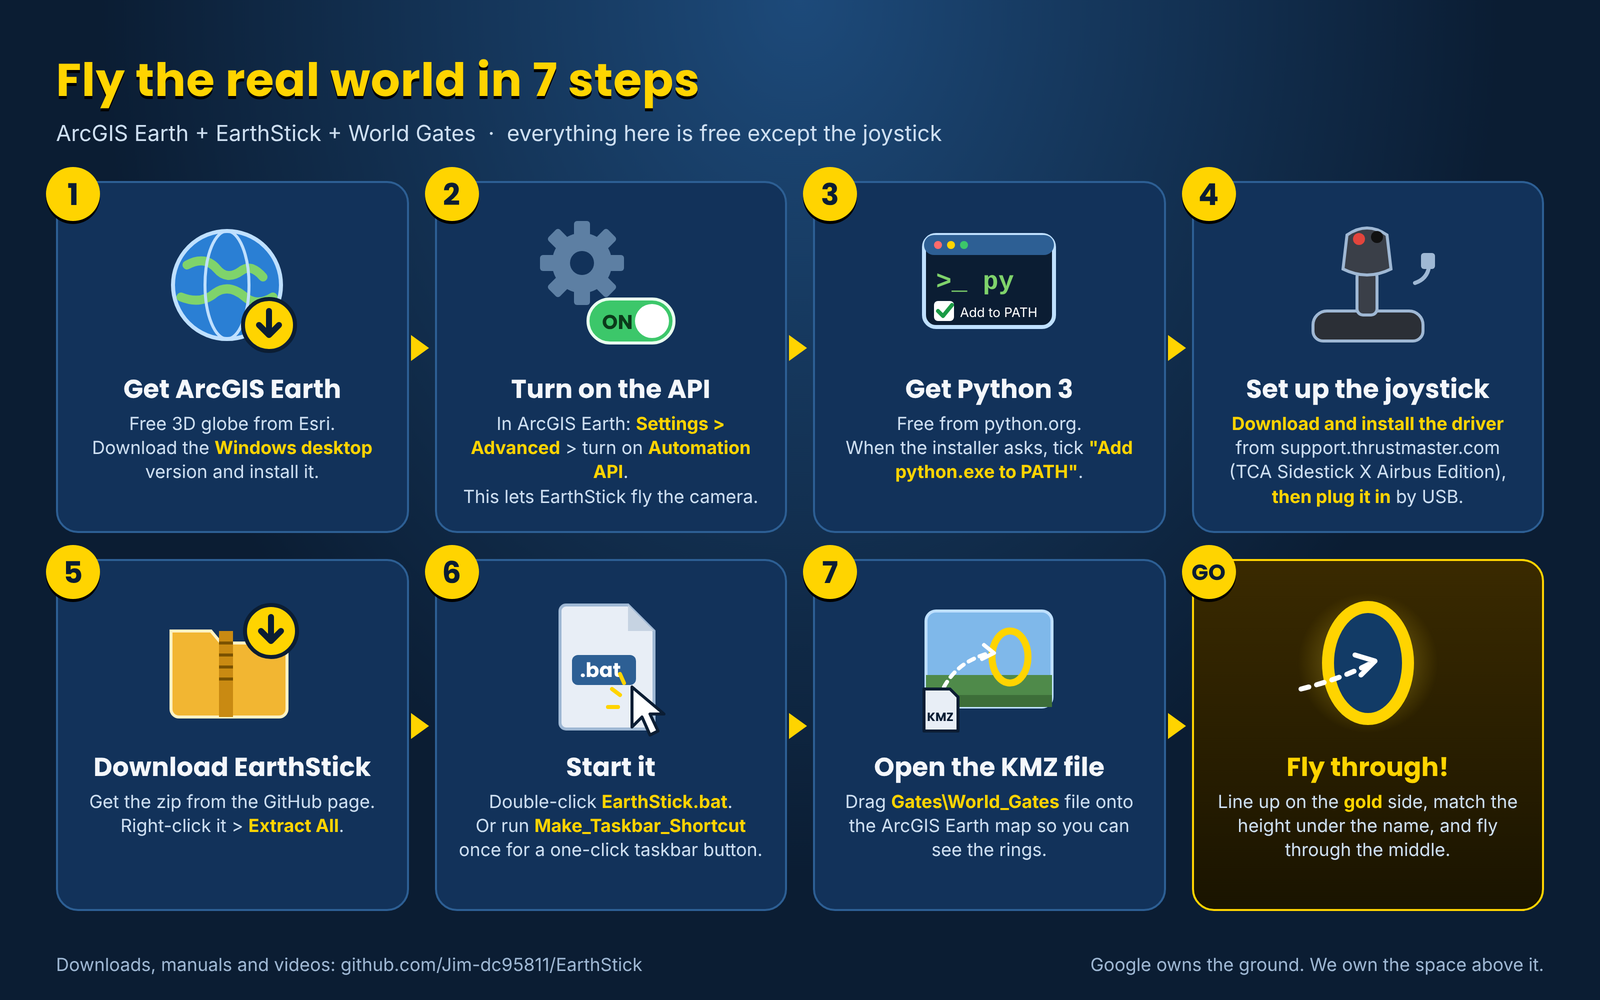
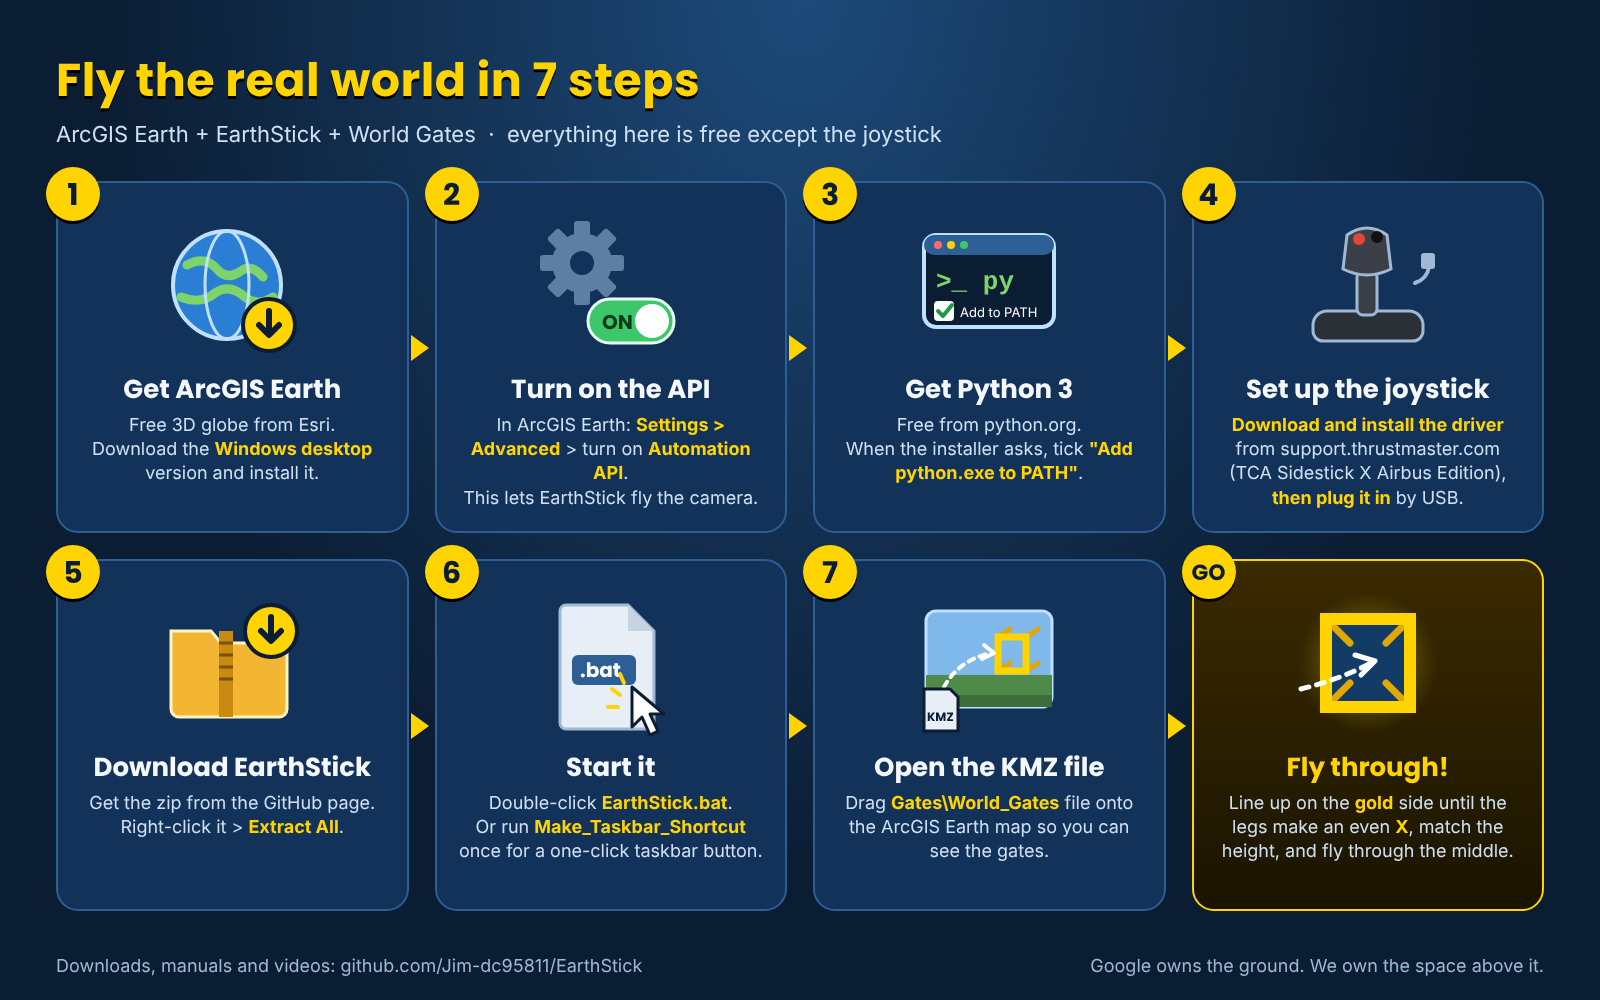
Fresh-eyes audit: square-gate wording, 7-steps picture, troubleshooting for 1.3.4, stale hashes
Claude-Session: https://claude.ai/code/session_01MnLGTHyhGnworHWEFuwHD3

diff --git a/tools/graphics/earthstick_getting_started.html b/tools/graphics/earthstick_getting_started.html
@@ -118,14 +118,15 @@
         <rect x="12" y="20" width="126" height="96" rx="10" fill="#7fb8ea" stroke="#bfe0ff" stroke-width="3"/>
         <rect x="12" y="84" width="126" height="32" rx="0" fill="#4f8a4a"/>
         <rect x="12" y="104" width="126" height="12" rx="0" fill="#3d6e39"/>
-        <ellipse cx="96" cy="66" rx="18" ry="26" fill="none" stroke="#ffd400" stroke-width="7"/>
+        <path d="M84 46 l12 -8 M112 46 l12 -8 M84 80 l12 -8 M112 80 l12 -8" stroke="#e0a800" stroke-width="5" stroke-linecap="round"/>
+        <rect x="84" y="46" width="28" height="34" fill="none" stroke="#ffd400" stroke-width="7"/>
         <path d="M30 96 q14 -26 46 -34" fill="none" stroke="#fff" stroke-width="4" stroke-dasharray="6 6" stroke-linecap="round"/>
         <path d="M70 54 l10 8 l-12 6" fill="none" stroke="#fff" stroke-width="4" stroke-linecap="round" stroke-linejoin="round"/>
         <path d="M10 98 h26 l8 8 v34 h-34 z" fill="#e8eef6" stroke="#0b1d33" stroke-width="3" stroke-linejoin="round"/>
         <text x="13" y="130" font-family="Poppins" font-size="12" fill="#0b1d33">KMZ</text>
       </svg>
       <div class="t">Open the KMZ file</div>
-      <div class="d">Drag <b>Gates\World_Gates</b> file onto the ArcGIS Earth map so you can see the rings.</div>
+      <div class="d">Drag <b>Gates\World_Gates</b> file onto the ArcGIS Earth map so you can see the gates.</div>
       <svg class="arrow" viewBox="0 0 22 30"><path d="M2 2 L20 15 L2 28 Z" fill="#ffd400"/></svg>
     </div>
     <!-- GO -->
@@ -133,12 +134,14 @@
       <svg class="icon" viewBox="0 0 150 150">
         <defs><radialGradient id="glow"><stop offset="0" stop-color="#fff6b0"/><stop offset="1" stop-color="#ffd400" stop-opacity="0"/></radialGradient></defs>
         <circle cx="75" cy="72" r="70" fill="url(#glow)" opacity="0.45"/>
-        <ellipse cx="75" cy="72" rx="40" ry="56" fill="#123b66" stroke="#ffd400" stroke-width="12"/>
+        <rect x="33" y="28" width="84" height="88" fill="#123b66"/>
+        <path d="M33 28 L57 52 M117 28 L93 52 M33 116 L57 92 M117 116 L93 92" stroke="#e0a800" stroke-width="7" stroke-linecap="round"/>
+        <rect x="33" y="28" width="84" height="88" fill="none" stroke="#ffd400" stroke-width="12"/>
         <path d="M8 98 q40 -10 70 -26" fill="none" stroke="#fff" stroke-width="5" stroke-linecap="round" stroke-dasharray="8 8"/>
         <path d="M62 64 l20 6 l-14 14" fill="none" stroke="#fff" stroke-width="5" stroke-linecap="round" stroke-linejoin="round"/>
       </svg>
       <div class="t" style="color:#ffd400">Fly through!</div>
-      <div class="d">Line up on the <b>gold</b> side, match the height under the name, and fly through the middle.</div>
+      <div class="d">Line up on the <b>gold</b> side until the legs make an even <b>X</b>, match the height, and fly through the middle.</div>
     </div>
   </div>
   <div class="foot"><span>Downloads, manuals and videos: github.com/Jim-dc95811/EarthStick</span><span>Google owns the ground. We own the space above it.</span></div>

diff --git a/CLAUDE.md b/CLAUDE.md
@@ -2,7 +2,7 @@
 
 **Written by Claude, for Claude.** Read this first after any session reset. It is the fastest way to get fully caught up on Jim's ArcGIS Earth Unlocked project family and how to work with him.
 
-**Last updated:** 2026-11-05 (~18:50) - after EarthStick 1.3.4 release and the World Gate Maker 1.1 TEST (square gates); gate-alignment math recorded in section 3a
+**Last updated:** 2026-11-05 (~19:30) - after EarthStick 1.3.4, World Gate Maker 1.1 and Jim's fresh-eyes audit of every page; gate-alignment math in section 3a
 
 Update this file whenever something durable changes: a release, an accepted test, a new rule, a decision, an open item opened or closed. Keep it current rather than long. History belongs in the session log at the bottom, kept short.
 
@@ -25,7 +25,7 @@ The older continuity files in each repo were written by ChatGPT for ChatGPT. The
 
 - **Owner:** Jim Gaddy, GitHub `Jim-dc95811`. Public-safety / fire-service background, decades of hands-on computer and electronics work. Not a traditional programmer; a relentless tester who trusts measured behavior over theory.
 - **Names decided (Jim, 2026-11-03):** family name **ArcGIS Earth Flight** (Jim's choice; he is giving the work away and wants people to find ArcGIS Earth, so "ArcGIS Earth" up front is intended - do not keep re-raising trademark concerns). Gate feature name **World Gates** (airport gates fit the ATL "connect here" hub; "portal" collides with Esri's Portal for ArcGIS and the Portal game; "portal" is fine as a word in videos). Tool names stay: EarthStick (not "Flight Stick" - generic, unsearchable), Object Factory, PointLayer, Parcel100, MBTiles converter, Master 4. **Renaming the pages/repos from "ArcGIS Earth Unlocked" to "ArcGIS Earth Flight" is NOT done yet** - separate job when Jim says go.
-- **WHERE THINGS STAND (2026-11-05, evening):** EarthStick **1.3.4** is current (1.3.3 + green RING HEIGHT light + tractor beam 'LOCKED ON'; World Gates **v21** = square gates with legs; City Beacons v2, launcher v1.0) - details in section 3. Test branches to delete: see section 6. **World Gate Maker 1.1** released (square gates). Nothing in test. **World Gate Maker 1.0** released. **Every download has a 'What's in the zip' sheet** (bright style; see the pictogram notes below). Nothing in test; one finished test branch (`earthstick-v1.3.3-test`) waits for Jim to delete (section 6). All seven repos clean and pushed; link check = only the 3 known legacy failures. The full World Gates story, every measured ArcGIS Earth fact and the 3D layout rules are in **section 3a** - read it before touching anything that floats in the sky. Next up: **The Realm** (below) - The Void needs Jim's three choices; the 'instruction book' page waits for Jim's go. Jim's idea list waiting for a go is in section 6.
+- **WHERE THINGS STAND (2026-11-05, evening):** EarthStick **1.3.4** is current (1.3.3 + green RING HEIGHT light + tractor beam 'LOCKED ON'; World Gates **v21** = square gates with legs; City Beacons v2, launcher v1.0) - details in section 3. **World Gate Maker 1.1** (square gates) is current. Nothing in test; four finished test branches wait for Jim to delete (section 6). **Every download has a 'What's in the zip' sheet** (bright style; see the pictogram notes below). All seven repos clean and pushed; link check = only the 3 known legacy failures. The full World Gates story, every measured ArcGIS Earth fact and the 3D layout rules are in **section 3a** - read it before touching anything that floats in the sky. Next up: **The Realm** (below) - The Void needs Jim's three choices; the 'instruction book' page waits for Jim's go. Jim's idea list waiting for a go is in section 6.
 - **THE REALM (Jim, 2026-11-04):** the bigger plan - games/adventures over the real map with EarthStick gates, released as packages. **Design journal: `realm/REALM_JOURNAL.md`** (keep it updated every session: dated log entries, building blocks, realms, backlog). First realm: **The Void** (hidden giant one-way trap gate; clue gates unlock an exit gate that EarthStick draws in the sky) - needs EarthStick 1.4 (clue / locked / appearing gates). Open: clue order, locations, clue count.
 - **Esri Community (Jim, joined 2026-11-03):** profile `community.esri.com/en/profile/discussions/Jim_G`, web page = the Unlocked repo. First post (ArcGIS Earth board, 2026-11-04 8:45 AM): 'ArcGIS Earth Offline - Creating and Using TPKX files - Using API for Joystick Control - Creating Wormholes' (8 views, 0 comments at 18:34). This is the outreach channel the 2a-1 notes called for.
 - **Getting-started pictogram (Jim's idea, 2026-11-04; Claude's first drawing for him):** 'Fly the real world in 7 steps' (own SVG icons, no logos), source `tools/graphics/earthstick_getting_started.html`; on the EarthStick page top, the EarthStick user guide (top) and the front page New: World Gates section. Jim's edits: step 4 = download and install the Thrustmaster driver (https://support.thrustmaster.com/en/product/tca-sidestick-x-airbus-ed-en/#drivers) then plug it in; step 7 = 'Open the KMZ file'. Jim: 'it would be a dream if that would be in the Thrustmaster box' - same style can be made for the other tools. **Second pictogram (Jim, 2026-11-04 20:27): 'What's in the EarthStick folder?'** - one card per item of the extracted 1.3.3 zip (Fly_ArcGIS_Earth.bat START HERE, Make_Taskbar_Shortcut.bat once, EarthStick.bat other way, EarthStick.py leave it alone, Gates, City_Beacons) + tips (keep together, ArcGIS_Earth_path.txt appears, Windows warning); source `tools/graphics/earthstick_whats_in_the_folder.html` (1600x1100); EarthStick `images/earthstick_whats_in_the_folder.png` + `_full.png`, placed under the README quick start, in the user guide (Start EarthStick, PDF rebuilt) and linked under the front page 7-steps picture. Jim: 'Fantastic job! ... not a graveyard of mysteries and you better not opens' - Jim then (20:34): 'a reputation for excellence if all of our zip packages had a matching file explanation sheet' -> 'I trust your judgement on all pages, engage': **'What's in the zip' sheets for all nine other packages** (World Gate Maker, Object Factory, PointLayer, Parcel100, mb2tpkx, Master 4, Batch Factory, PRAVE/ME Tracker, PRAVE/RMC Tester) from `tools/graphics/make_zip_sheets.py` (facts checked against each zip; dashed green cards = files the tool makes). Placed as a '🗂 What's in the zip - every file explained' line under every download/manual line (repo pages + front page + Chartplotting `index.html` table) and as a 'What's in the zip' section in each manual (7 PDFs rebuilt; PRAVE tracker guide has no PDF; tester has only Jim's own PDF, untouched). **Standing rule: when a zip's contents change, update its sheet in `SHEETS` and re-render.** **Look (Jim, 20:45): bright/light theme** ('brighter, not black and blue') - light sky-to-white background, white cards, gold START HERE card, green dashed 'made for you' cards; the LIGHT THEME block is appended to the CSS in `make_zip_sheets.py` and `earthstick_whats_in_the_folder.html` (the 7-steps picture is still the dark original). Zips themselves unchanged (no version bumps); a sheet can ride inside a zip at that tool's next version.
@@ -143,7 +143,7 @@ ArcGIS Earth     -> the common renderer
 - Android: ~2 GB Z17 TPKX is the practical ceiling; copy from SD card to internal storage before opening.
 - Manuals: `MB2TPKX_USER_MANUAL.md` (new 2026-11-01) and `MASTER4_GRID_MAKER.md`, each with a generated PDF of the same base name as before (`mb2tpkx_User_Manual.pdf`, `Master4_Grid_Maker_User_Manual.pdf`).
 
-**EarthStick 1.3.4** (+ World Gate Maker 1.0)
+**EarthStick 1.3.4** (+ World Gate Maker 1.1)
[3 lines of base64/hex data omitted]
@@ -259,20 +259,20 @@ From the older continuity files. None of these is approved just by appearing her
 
 ## 6. Open items
 
-- **WAITING ON JIM'S GO (one list, 2026-11-04 night):** The Void choices (clue order, trap/drop places, clue count) -> then EarthStick 1.4; the Realm 'instruction book' page; 3D model test for Realm doorways; Mystery Gate flash-round test chain; World Gate Maker 1.1 (recommended: one-way, PNG picture, ring colour); Joystick Explorer (logged in the journal); webcam embed test; launcher v1.1 (Jim's ArcGIS Earth path); page/repo renaming to ArcGIS Earth Flight; Living Atlas basemap test; bright version of the 7-steps picture (offered, unanswered); a windowed-mode screenshot to measure the readout position. Jim's own: Tokyo corner cells 57, 59, 77, 79.
+- **WAITING ON JIM'S GO (one list, 2026-11-04 night):** The Void choices (clue order, trap/drop places, clue count) -> then EarthStick 1.4; the Realm 'instruction book' page; 3D model test for Realm doorways; Mystery Gate flash-round test chain; World Gate Maker 1.2 ideas (one-way, PNG picture, gate colour); Joystick Explorer (logged in the journal); webcam embed test; launcher v1.1 (Jim's ArcGIS Earth path); page/repo renaming to ArcGIS Earth Flight; Living Atlas basemap test; bright version of the 7-steps picture (offered, unanswered; its step 7 / GO icons were redrawn as square gates 2026-11-05); a windowed-mode screenshot to measure the readout position. Jim's own: Tokyo corner cells 57, 59, 77, 79.
 - **Attitude beam -> gate alignment (2026-11-04 23:08 to 2026-11-05 18:31): CLOSED.** Started as Jim's nose laser (trigger = beam, 10 s lock), became gate alignment; ended as square gates + ring-height light + tractor beam in EarthStick 1.3.4 / World Gates v21. Dead ends, measured API facts and all the math: section 3a 'Gate alignment'. Trigger stayed trigger-click (as 1.3.3); Button 2 is still free. Test zips TEST-TEST7 remain on branch `earthstick-v1.3.4-test` until Jim deletes it.
 - **PRAVE (Jim: "addressed later"):** radio field test of tracker v1.1/v1.2 (only startup confirmed); then a PDF of `docs/PRAVE_ME_TRACKER.md`; a screenshot for the PRAVE/RMC tester on the Chartplotting page.
 - **NEXT WHEN JIM RETURNS - live camera objects:** Jim to choose between (a) a camera field in the Object Factory (paste the FL511 picture link; popup gets the live, refreshing picture) and (b) a camera-pack maker (camera numbers + coordinates -> one KMZ). Either is a new feature and a new version. The proven test KMZ is saved at `tools/samples/TEST_Camera_SR200_W_of_I95.kmz` (its branch is deleted). Open question for camera objects: altitude and tether (Claude suggested no tether, about 60-80 m; Jim undecided). Trigger-click (EarthStick 1.2) now opens these popups from the joystick.
 - **Camera picture-in-picture idea (Jim, 2026-11-01, not approved to build):** a separate always-on-top Windows viewer opened by clicking a camera object. PROVEN by Jim: the ArcGIS Earth popup is a built-in browser - an fl511.com link opened the live site inside the popup (back/forward, pin). `earthpip:` link with no handler registered: "couldn't be opened" (inconclusive). PROVEN: a camera object whose popup has `<img src=https://fl511.com/map/Cctv/1362>` + a 10-second refresh script shows the live camera and updates by itself (popup runs JavaScript). Test KMZ saved at `tools/samples/TEST_Camera_SR200_W_of_I95.kmz`. Building it into a tool (e.g. Object Factory camera field or a camera-pack maker) is a new feature: needs Jim's approval and a new version. See `tools/ARCGIS_EARTH_API.md`.
 - **EarthStick 1.2 RELEASED 2026-11-01** (trigger-click; see section 3). Page and manual carry Jim's crosshair + camera-object screenshot (`images/earthstick_trigger_click_crosshair.jpg`). Optional next picture: the same view with the info box open (before/after). The simulated-click recipe is in `tools/ARCGIS_EARTH_API.md`.
-- **World Gates:** released and current (EarthStick 1.3.3 / v19); full reference in section 3a. Ideas still open: Object Factory Gate tab (partly covered by World Gate Maker), trap-door gates (-> The Void), more hubs, live webcam object per city (Jim to pick webcams), TAKE ME THERE camera PUT from a popup (untested), World Gate Maker 1.1 'hidden, one-way' option.
+- **World Gates:** released and current (EarthStick 1.3.4 / v21 square gates); full reference in section 3a. Ideas still open: Object Factory Gate tab (partly covered by World Gate Maker), trap-door gates (-> The Void), more hubs, live webcam object per city (Jim to pick webcams), TAKE ME THERE camera PUT from a popup (untested), World Gate Maker 'hidden, one-way' option.
 - **The Realm / The Void:** waiting on Jim's choices (clue order, trap and drop places, clue count); then EarthStick 1.4 (clue / locked / appearing gates) + the first trap pack. **Instruction book** page: write when Jim says go.
 - **Small follow-ups:** launcher v1.1 = add `C:\Program Files\ArcGIS\ArcGIS Earth\bin\ArcGISEarth.exe` to the known paths (only on Jim's go); page/repo renaming to 'ArcGIS Earth Flight' (only on Jim's go); viewer basemap advice (Living Atlas World Imagery test while signed out).
 - **Objects video** coming from Jim; when it exists, it may replace `5Wn14qlC7n4` on the Object Factory picture (ask).
 - **Parked (Jim's call, 2026-10-31):** Batch Factory findings (code read only) - Cancel ignores the 2-minute settle, duplicate labels caught late, closing the window mid-batch. Raise again only if Jim asks. (Extent Tool findings are moot: tool retired.)
 - `legacy/Earth_Beacon_v1.0/README_original.md` in Object Factory has three relative links that broke when it moved into `legacy/`. Left alone as a preserved original.
-- **Branches to delete (Jim, on GitHub > Branches):** EarthStick `earthstick-v1.3.3-test` and `earthstick-v1.3.4-test`; Unlocked `world-gates-v20-test` and `square-gate-test` (all finished; 1.3.4 released 2026-11-05). Also finished: EarthStick `gate-maker-v1.1-test` (1.1 released).
[1 lines of base64/hex data omitted]
+- **Branches to delete (Jim, on GitHub > Branches; checked with ls-remote 2026-11-05 19:08):** all four are in **EarthStick**: `earthstick-v1.3.4-test`, `gate-maker-v1.1-test`, `square-gate-test`, `world-gates-v20-test` (all finished). `earthstick-v1.3.3-test` already deleted. Every other repo is `main` only.
[1 lines of base64/hex data omitted]
 
 ---
 

diff --git a/README.md b/README.md
@@ -40,7 +40,7 @@ Install **[ArcGIS Earth](https://www.esri.com/en-us/arcgis/products/arcgis-earth
 - 🧭 **[Sky Compass](https://github.com/Jim-dc95811/ArcGIS-Earth-Object-Factory/raw/main/samples/SAMPLE_Sky_Compass.kmz)** - giant N / E / S / W letters in the sky around the area.
 - 🚁 **[Object set](https://github.com/Jim-dc95811/ArcGIS-Earth-Object-Factory/raw/main/samples/SAMPLE_Object_Set.kmz)** - floating fuel, helicopter, bird, camera and hazard objects; click them for their information.
 
-- 🌐 **[World Gates](https://github.com/Jim-dc95811/EarthStick/raw/main/gates/World_Gates_JAX_ATL_v21.kmz)** - golden gates from Jacksonville to an Atlanta hub and around the world: New York, London, Paris, Rome, Tokyo, Sydney and Rio, each with a welcome sign and site stars. Fly through them with EarthStick 1.3.2 and you arrive at the landmark. ▶ [Watch the video](https://www.youtube.com/watch?v=2N8-4cWMoPw) (YouTube).
+- 🌐 **[World Gates](https://github.com/Jim-dc95811/EarthStick/raw/main/gates/World_Gates_JAX_ATL_v21.kmz)** - golden gates from Jacksonville to an Atlanta hub and around the world: New York, London, Paris, Rome, Tokyo, Sydney and Rio, each with a welcome sign and site stars. Fly through them with EarthStick and you arrive at the landmark. ▶ [Watch the video](https://www.youtube.com/watch?v=2N8-4cWMoPw) (YouTube).
 
 Made with the Object Factory and EarthStick. Make your own with the tools below.
 
@@ -89,7 +89,7 @@ ArcGIS Pro add-in that builds up to 10 satellite or road-overlay TPKX packages i
 **📖 [User manual](https://github.com/Jim-dc95811/EarthStick/blob/main/docs/USER_GUIDE.md)**
 **🗂 [What's in the zip - every file explained](https://github.com/Jim-dc95811/EarthStick/blob/main/images/earthstick_whats_in_the_folder_full.png)**
 
-Fly the real map in ArcGIS Earth with a Thrustmaster TCA Sidestick. Let go and it hovers; pull the trigger to open what's under the crosshair. **World Gates** - fly through a golden gate and come out on the other side of the world. Includes the round-the-world tour with welcome signs and one-click site beacons, a one-click taskbar start, and (new in 1.3.3) your height, heading and map zoom on screen, even in full-screen mode.
+Fly the real map in ArcGIS Earth with a Thrustmaster TCA Sidestick. Let go and it hovers; pull the trigger to open what's under the crosshair. **World Gates** - fly through a golden gate and come out on the other side of the world. Includes the round-the-world tour with welcome signs and one-click site beacons, a one-click taskbar start, your height, heading and map zoom on screen (1.3.3), and - new in 1.3.4 - square gates, a green ring-height light and a tractor beam that guides you through.
 
 [![Flying low over the St. Johns River with a beacon and sky compass on the horizon.](images/earthstick.jpg)](https://github.com/Jim-dc95811/EarthStick)
 
@@ -103,7 +103,7 @@ Make your own World Gates: pick any two places and it builds the pair of golden 
 
 [![A World Gate named Home floating over Central Park, New York, at 520 ft](images/world_gate_maker.jpg)](https://github.com/Jim-dc95811/EarthStick#make-your-own-gates)
 
-*A "Home" gate over Central Park, partnered with a "Central Park" gate near home in Jacksonville. [More about this tool](https://github.com/Jim-dc95811/EarthStick#make-your-own-gates).*
+*A "Home" gate over Central Park (made with 1.0, when gates were round - 1.1 makes square gates), partnered with a "Central Park" gate near home in Jacksonville. [More about this tool](https://github.com/Jim-dc95811/EarthStick#make-your-own-gates).*
 
 ### **⬇ [DOWNLOAD ARCGIS EARTH OBJECT FACTORY v1.2](https://github.com/Jim-dc95811/ArcGIS-Earth-Object-Factory/raw/main/releases/ArcGIS_Earth_Object_Factory_v1.2.zip)**
 **📖 [User manual](https://github.com/Jim-dc95811/ArcGIS-Earth-Object-Factory/blob/main/docs/OBJECT_FACTORY_USER_MANUAL.md)**
